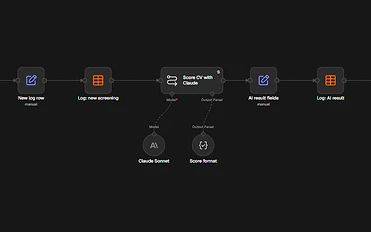
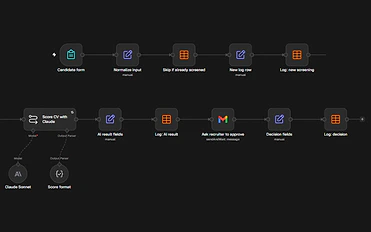
Show whole workflows on project cards and pages
Retake the AI Front Desk and CV Screening screenshots so nothing is cut off,
show every Lead Routing step, and move the full-size label below the image so
it no longer covers the picture.

Changed region(s): [[0.0, 0.181, 1.0, 0.7241], [0.1186, 0.6638, 0.2075, 0.8147], [0.0, 0.6638, 0.0889, 0.8147]]

diff --git a/src/styles.css b/src/styles.css
@@ -555,10 +555,6 @@ h2 span {
 }
 
 .enlarge-label {
-  position: absolute;
-  bottom: 0;
-  left: 0;
-  right: 0;
   display: flex;
   justify-content: center;
   gap: 8px;
